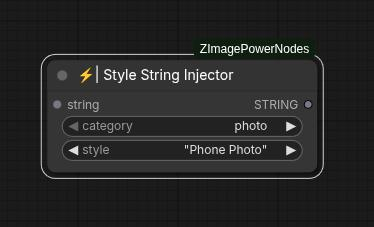
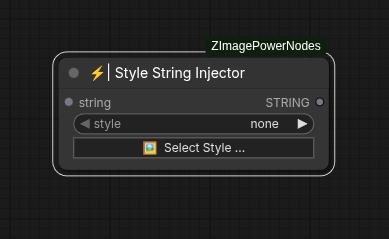
docs: Add screenshots and documentation placeholders for new nodes
This commit enhances the documentation by adding screenshots of each
newly introduced or significantly updated node in the `/docs` directory.
Additionally, placeholder Markdown (.md) files are included to serve as
starting points for documenting these nodes, ensuring comprehensive
coverage as part of the upcoming version 1.0 release.

Changed region(s): [[0.0882, 0.1542, 0.8824, 0.8018]]

diff --git a/docs/zsampler_turbo.md b/docs/zsampler_turbo.md
@@ -6,26 +6,43 @@ The distinctive feature of this sampler is that it divides the number of steps i
 
 Between 7 and 9 steps, the image achieves sufficient quality and detail, making further refining or post-processing unnecessary.
 
-This sampler also enhances prompt adherence, particularly when using the GGUF Q5_K_S checkpoint. (More tests are needed to verify if there's an improvement with safetensors bf16 as well.)
+This sampler also enhances prompt adherence y la coherencia final de la imagen, evitando la necesidad del nodo "ModelSamplingAuraFlow" y de encontrar el punto justo del parámetro 'shift' de dicho nodo.
+
 
 ## Inputs
 
-### Model
+### model
 
 Any checkpoint from the "Z-Image Turbo" model. This sampler hasn't been extensively tested with LoRAs applied, nor has it been determined which types of LoRA training might benefit from this three-stage sampling process.
 
-### Positive
+### positive
 
 The positive conditioning input, typically the prompt embedding. There is no negative conditioning because this sampler always operates at CFG 1.0. In the future, it may be worth testing a similar sampling approach with a slightly higher CFG value, but I wanted to avoid adding another variable during testing.
 
-### Latent Input
+### latent_input
 
 The latent image to be denoised.
 
-### Steps
+### seed
+...
+
+### steps
 
 Number of denoising steps, which can range from 4 to 9.
 
-### Denoise
+### denoise
 
 This parameter is not currently implemented. The node treats it as if it were always set to 1.0. In the future, implementing this could potentially enable some form of inpainting functionality.
+
+### initial_noise_calibration
+....
+
+### lowres_bias
+....
+
+## Outputs
+
+### latent_output
+....
+
+

diff --git a/docs/style_string_injector.md b/docs/style_string_injector.md
@@ -10,19 +10,12 @@ the raw prompt (composition, characters, etc.) and modifies it with the chosen s
 Through this connection, provide the plain text of your prompt, including composition,
 characters, or other details, without specifying any particular style.
 
-### category
-The category of the style you want to apply. Changing this option updates the list of
-available styles in `style_to_apply` to show only those that match.
-Currently, there are 4 categories:
-  * __photo__       : Contains photographic and realistic styles
-  * __illustration__: Contains illustration, drawing, comic, anime, etc.
-  * __other__       : Styles that don't fit into the previous groups
-  * __custom__      : Free styles for user configuration
-
 ### style
 Selects the desired style to inject or "none" if you prefer the output to be identical to
 the input prompt without any modifications
 
+### "Select Style ..."
+....
 
 ## Outputs
 

diff --git a/docs/style_prompt_encoder.md b/docs/style_prompt_encoder.md
@@ -32,15 +32,11 @@ YOUR PHOTO:
 {$@}
 ```
 
-### category
-The category of the style you want to apply. Changing this option updates the list of available styles in style_to_apply to show only those that match the selected category. Currently, there are 4 categories:
-  * __photo__: Contains photographic and realistic styles
-  * __illustration__: Includes illustration, drawing, comic, anime, etc.
-  * __other__: Styles that don't fit into the previous groups
-  * __custom__: Free-form styles for user configuration
-
 ### style
 Selects the desired style to apply or "none" if you prefer not to use any predefined style.
+
+### "Select Style..."
+....
 
 ### text
 This is where you input your prompt. For better style application, avoid including messages in the prompt that might interfere with the selected style.

diff --git a/docs/my_top_10_styles.md b/docs/my_top_10_styles.md
@@ -1,0 +1,24 @@
+# My Top-10 Styles & Editor
+![Node](/docs/my_top_10_styles.jpg)
+
+This node ...
+
+
+## Inputs
+
+### input
+
+### top_styles
+
+### the list of top-10 styles
+
+### control_after_generate
+
+### output_to
+
+
+## Outputs
+
+### output
+
+

diff --git a/docs/vae_encode_for_soft_inpainting.md b/docs/vae_encode_for_soft_inpainting.md
@@ -1,0 +1,24 @@
+# VAE Encode (for Soft Inpainting)
+![text](/docs/vae_encode_for_soft_inpainting.jpg)
+
+This node ...
+
+
+## Inputs
+
+### pixels
+
+### vae
+
+### mask
+
+### output_size
+
+### mask_blur_pixels
+
+
+
+## Outputs
+
+### latent
+
